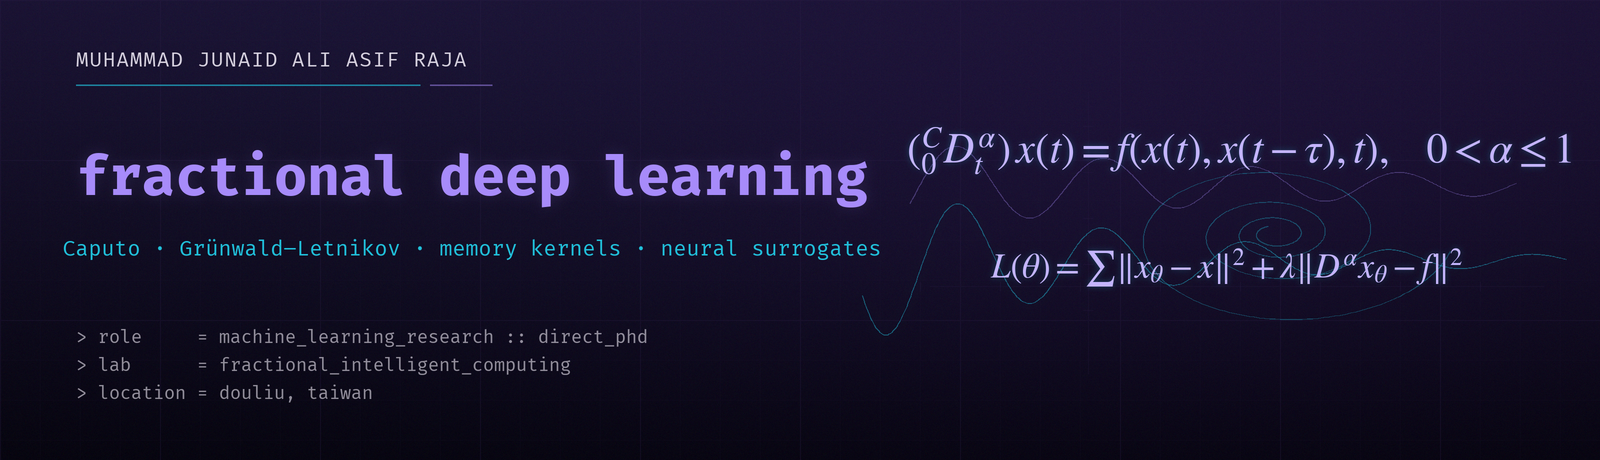
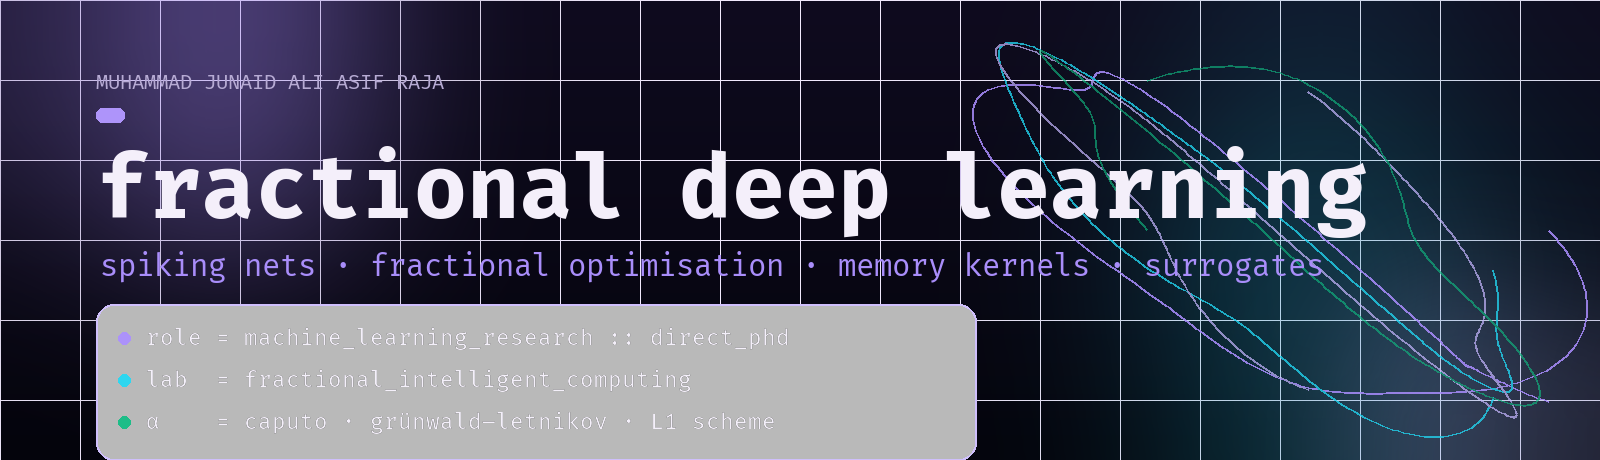
Tighten README after multi-agent critique
Reframe Fractional Deep Learning honestly — "an open research direction
I am working on, still finding its shape" instead of overclaim.

Three threads aligned with the actual programme:
- Memory is structure, not noise (fractional operators)
- Computation is spiking, not just smooth (fractional spiking neural networks)
- Optimisation is fractional (memory-aware gradient updates)

Synthesised changes from five parallel critics (prose, technical,
visual, persona, distinctiveness):

Prose:
- Thesis rewritten without hedge-language ("absorb", "budget")
- Repository descriptions tightened — drop "empirical backbone",
  "useful when benchmarking", "runs in-lab", "arXiv-style"
- "Currently · 2026-Q2" questions expanded from slogans to full
  research-grade questions
- "Direct PhD" → "Direct-entry PhD" for non-Taiwan readers
- signature.svg alt-text + caption made consistent

Technical:
- Drop the inaccurate O(N²) claim from the thesis (was correct only
  for naive direct evaluation; SOE / Jiang–Zhang / Lubich reduce it
  to O(N log² N))
- Split dataclass `kernel` / `scheme` fields (Caputo/G-L are
  definitions; L1 / Adams–Bashforth–Moulton are schemes)
- "L1-scheme" → "L1 scheme" (standard convention)
- Dataclass docstring honest about FDL still being defined

Visual:
- Stats row trimmed 6 → 3 (drop low-signal lang + repos badges)
- Selected work: #### subheadings dropped, replaced with inline
  italic *[track]* labels — same grouping, lower visual weight
[…]

diff --git a/scripts/build_profile_assets.py b/scripts/build_profile_assets.py
@@ -183,60 +183,36 @@ def build_hero(name: str, palette: dict, headline: str, tagline: str) -> None:
     draw = ImageDraw.Draw(image, "RGBA")
 
     # fonts
-    micro = load_font(20)
-    small = load_font(24)
-    medium = load_font(30)
-    large = load_font(78, bold=True)
-    sub = load_font(28)
+    micro    = load_font(20)
+    sub      = load_font(30)
+    eq_font  = load_font(36, bold=True)
+    headline_font = load_font(86, bold=True)
 
-    # eyebrow + name
-    add_label(draw, (90, 64), "MUHAMMAD JUNAID ALI ASIF RAJA", micro, (*palette["muted"], 245))
-    # title bar accent
-    draw.rounded_rectangle((90, 100, 122, 110), radius=5, fill=(*palette["violet"], 230))
+    # eyebrow (name in small caps)
+    add_label(draw, (96, 70),  "MUHAMMAD JUNAID ALI ASIF RAJA", micro, (*palette["muted"], 245))
+
+    # title bar accent (vertical chip)
+    draw.rounded_rectangle((96, 108, 124, 122), radius=6, fill=(*palette["violet"], 235))
 
     # headline
-    add_label(draw, (90, 124), headline, large, (*palette["text"], 255))
-    add_label(draw, (94, 230), tagline, sub, (*palette["violet"], 250))
+    add_label(draw, (96, 138), headline, headline_font, (*palette["text"], 255))
 
-    # signature equation line under the tagline
-    eq_line = "𝒟ᵅ x(t) = f( x(t), x(t−τ), t ),   0 < α ≤ 1"
-    add_label(draw, (94, 274), eq_line, medium, (*palette["cyan"], 240))
+    # subline (vectors)
+    add_label(draw, (100, 248), tagline, sub, (*palette["violet"], 250))
 
-    # terminal panel bottom-left
+    # terminal panel bottom-left — role + lab + α only (location is already in the README sub-line)
     draw_terminal_panel(
         draw,
         palette,
         name,
         lines=[
-            (palette["violet"],  "role     = machine_learning_research :: direct_phd"),
-            (palette["cyan"],    "lab      = fractional_intelligent_computing"),
-            (palette["emerald"], "location = douliu, taiwan"),
+            (palette["violet"],  "role = machine_learning_research :: direct_phd"),
+            (palette["cyan"],    "lab  = fractional_intelligent_computing"),
+            (palette["emerald"], "α    = caputo · grünwald–letnikov · L1 scheme"),
         ],
-        origin=(90, 318),
-        width=760,
+        origin=(96, 304),
+        width=880,
     )
-
-    # right-side meta column
-    meta_lines = [
-        ("programme :", "fractional deep learning"),
-        ("methods    :", "NARX · cascade · PINN · fractional optim."),
-        ("systems    :", "HR · FHN · memristive · CPS · plankton"),
-    ]
-    y = 90
-    label_font = load_font(20, bold=True)
-    value_font = load_font(20)
-    for label, value in meta_lines:
-        add_label(draw, (970, y), label, label_font, (*palette["lavender"], 240))
-        add_label(draw, (1130, y), value, value_font, (*palette["text"], 235))
-        y += 32
-
-    # small loss equation, lower-right
-    loss = "L(θ) = Σ ‖x_θ − x‖² + λ ‖𝒟ᵅ x_θ − f‖²"
-    add_label(draw, (970, 360), loss, value_font, (*palette["cyan"], 220))
-
-    # bottom corner tag
-    corner = load_font(18)
-    add_label(draw, (1440, 414), "ƒDL · 2026", corner, (*palette["muted"], 200))
 
     image.save(ASSETS_DIR / name)
 
@@ -244,7 +220,7 @@ def build_hero(name: str, palette: dict, headline: str, tagline: str) -> None:
 def main() -> None:
     ensure_dirs()
     headline = "fractional deep learning"
-    tagline  = "Caputo · Grünwald–Letnikov · memory kernels · neural surrogates"
+    tagline  = "spiking nets · fractional optimisation · memory kernels · surrogates"
     build_hero("hero-dark.png",  DARK,  headline, tagline)
     build_hero("hero-light.png", LIGHT, headline, tagline)
     print(f"Built assets in {ASSETS_DIR}")

diff --git a/README.md b/README.md
@@ -6,227 +6,109 @@
 <h1 align="center">Muhammad Junaid Ali Asif Raja</h1>
 
 <p align="center">
-  <b>Pioneering · Engineering · Crafting&nbsp; Fractional Deep Learning</b><br>
-  <sub>Machine Learning Research &nbsp;·&nbsp; Direct PhD &nbsp;·&nbsp; Fractional Intelligent Computing Lab &nbsp;·&nbsp; National Yunlin University of Science &amp; Technology &nbsp;·&nbsp; Douliu, Taiwan</sub>
+  <sub>Machine Learning Research &nbsp;·&nbsp; Direct-entry PhD &nbsp;·&nbsp; Fractional Intelligent Computing Lab &nbsp;·&nbsp; National Yunlin University of Science &amp; Technology &nbsp;·&nbsp; Douliu, Taiwan</sub>
 </p>
 
 <p align="center">
   <a href="https://junaidaliop.github.io"><img alt="Portfolio" src="https://img.shields.io/badge/Portfolio-junaidaliop.github.io-7C3AED?style=for-the-badge&logo=githubpages&logoColor=white"></a>
   <a href="https://scholar.google.com/citations?user=9VTFIJcAAAAJ"><img alt="Google Scholar" src="https://img.shields.io/badge/Scholar-profile-22D3EE?style=for-the-badge&logo=googlescholar&logoColor=white"></a>
   <a href="https://orcid.org/0009-0008-9249-9983"><img alt="ORCID" src="https://img.shields.io/badge/ORCID-0009--0008--9249--9983-A78BFA?style=for-the-badge&logo=orcid&logoColor=white"></a>
-  <a href="https://junaidaliop.github.io/assets/pdf/cv.pdf"><img alt="CV" src="https://img.shields.io/badge/CV-PDF-0E7490?style=for-the-badge&logo=adobeacrobatreader&logoColor=white"></a>
+  <a href="https://junaidaliop.github.io/assets/pdf/cv.pdf"><img alt="CV" src="https://img.shields.io/badge/CV-PDF-22D3EE?style=for-the-badge&logo=adobeacrobatreader&logoColor=white"></a>
   <a href="mailto:muhammadjunaidaliasifraja@gmail.com"><img alt="Email" src="https://img.shields.io/badge/Email-contact-7C3AED?style=for-the-badge&logo=protonmail&logoColor=white"></a>
 </p>
 
 <p align="center">
-  <img alt="Citations"  src="https://img.shields.io/badge/citations-188-A78BFA?style=flat-square&labelColor=2D1F4A">
-  <img alt="h-index"    src="https://img.shields.io/badge/h--index-9-A78BFA?style=flat-square&labelColor=2D1F4A">
-  <img alt="i10-index"  src="https://img.shields.io/badge/i10--index-8-A78BFA?style=flat-square&labelColor=2D1F4A">
-  <img alt="papers"     src="https://img.shields.io/badge/papers-27%2B-22D3EE?style=flat-square&labelColor=164E63">
-  <img alt="repos"      src="https://img.shields.io/badge/public%20repos-16-22D3EE?style=flat-square&labelColor=164E63">
-  <img alt="lang"       src="https://img.shields.io/badge/lang-Python%20%C2%B7%20Jupyter%20%C2%B7%20MATLAB-10B981?style=flat-square&labelColor=064E3B">
-  <a href="mailto:muhammadjunaidaliasifraja@gmail.com"><img alt="Open to collaborations" src="https://img.shields.io/badge/open%20to%20collaborations-let's%20talk-F59E0B?style=for-the-badge&labelColor=78350F&logo=maildotru&logoColor=white"></a>
+  <img alt="Citations" src="https://img.shields.io/badge/citations-188-A78BFA?style=flat-square&labelColor=2D1F4A">
+  <img alt="h-index"   src="https://img.shields.io/badge/h--index-9-A78BFA?style=flat-square&labelColor=2D1F4A">
+  <img alt="papers"    src="https://img.shields.io/badge/papers-27%2B-22D3EE?style=flat-square&labelColor=164E63">
 </p>
 
 > [!IMPORTANT]
-> **Thesis.** Classical solvers spend most of their budget evaluating memory kernels.
-> Deep networks, given the right structure, can absorb those kernels in a single forward pass.
+> **Thesis.** Classical fractional solvers carry their full history at every step.
+> A trained neural surrogate amortises that work into a single forward pass —
+> without breaking the fractional constraint.
 
 ---
 
-## Programme
+## Fractional Deep Learning
 
-I am **pioneering Fractional Deep Learning** — a coherent family of neural architectures, training objectives, and optimizers built around fractional-order operators. The class of systems under study is
+A direction I am working on — still finding its shape. Three threads.
 
-$$ {}^{C}_{\,0}\mathcal{D}^{\alpha}_{t}\,x(t) \;=\; f\!\big(x(t),\,x(t-\tau),\,t\big), \qquad 0 < \alpha \leq 1, $$
+**1 · Memory is structure, not noise.**
+Long-range temporal dependence in real systems is captured natively by fractional operators. Networks should learn under that structure, not despite it.
 
-and the trained surrogate $x_\theta$ minimises a fractional-residual criterion
+**2 · Computation is spiking, not just smooth.**
+Real neurons fire; real systems with memory accumulate. **Fractional spiking neural networks (FSNNs)** make discrete events first-class under a continuous memory kernel.
 
-$$ \mathcal{L}(\theta) \;=\; \sum_{t}\big\Vert\, x_\theta(t) - x(t)\,\big\Vert_{2}^{2} \;+\; \lambda\,\big\Vert\, {}^{C}_{\,0}\mathcal{D}^{\alpha}_{t}\,x_\theta(t) \,-\, f\!\big(x_\theta(t),\,x_\theta(t-\tau),\,t\big)\,\big\Vert_{2}^{2}, $$
+**3 · Optimisation is fractional.**
+Memory-aware gradient updates — Caputo, Grünwald–Letnikov — change the training dynamics on non-smooth loss landscapes.
 
-so the network must be correct pointwise *and* correct under the fractional operator.
+The class of systems under study and the criterion the surrogate $x_\theta$ minimises:
+
+$$ {}^{C}_{\,0}\mathcal{D}^{\alpha}_{t}\,x(t) \;=\; f\!\big(x(t),\,x(t-\tau),\,t\big), \qquad 0 < \alpha \leq 1 $$
+
+$$ \mathcal{L}(\theta) \;=\; \sum_{t}\big\Vert\, x_\theta(t) - x(t)\,\big\Vert_{2}^{2} \;+\; \lambda\,\big\Vert\, {}^{C}_{\,0}\mathcal{D}^{\alpha}_{t}\,x_\theta(t) \,-\, f\!\big(x_\theta(t),\,x_\theta(t-\tau),\,t\big)\,\big\Vert_{2}^{2} $$
+
+Correct pointwise, *and* correct under the fractional operator.
 
 ```python
 from dataclasses import dataclass, field
 
 @dataclass(frozen=True)
 class FractionalDeepLearning:
-    """A coherent research programme around fractional-order operators."""
-    vectors: list[str] = field(default_factory=lambda: [
-        "fractional-aware optimizers for deep networks",
-        "autoregressive neural emulators for fractional-order systems",
+    """An open research direction. Surface still being defined."""
+    threads: list[str] = field(default_factory=lambda: [
+        "fractional spiking neural networks",
+        "fractional-order optimisation for deep networks",
+        "neural emulators for fractional-order dynamics",
         "physics-informed losses with non-local memory kernels",
-        "long-memory dynamics: cyber-physical, neuronal, ecological",
     ])
-    alpha:   float = 0.95         # fractional order, Caputo sense
-    horizon: int   = 1024         # rollout steps for long-memory rollouts
-    kernel:  str   = "caputo"     # caputo | grunwald-letnikov | adams-bashforth
-    solver:  str   = "L1-scheme"  # baseline against which surrogates compete
-```
-
-```mermaid
-%%{init: {'theme':'base','themeVariables':{'fontFamily':'ui-monospace,SFMono-Regular,Menlo,monospace','primaryColor':'#7C3AED','primaryTextColor':'#ffffff','primaryBorderColor':'#A78BFA','lineColor':'#A78BFA','secondaryColor':'#0F172A','tertiaryColor':'#1E293B','clusterBkg':'#0F172A','clusterBorder':'#334155'}}}%%
-flowchart LR
-    A["Fractional system<br/><b>𝒟<sup>α</sup>x = f</b>"]:::sys --> B["Discretise<br/>L1 · GL · Adams"]:::num
-    B --> C["Neural surrogate<br/>NARX · cascade · PINN"]:::nn
-    C --> D["Long-horizon<br/>prediction"]:::out
-    A -. "fractional residual" .-> C
-    classDef sys fill:#7C3AED,stroke:#C4B5FD,color:#ffffff,stroke-width:2px
-    classDef num fill:#1E293B,stroke:#475569,color:#E2E8F0,stroke-width:2px
-    classDef nn  fill:#06B6D4,stroke:#67E8F9,color:#0F172A,stroke-width:2px
-    classDef out fill:#10B981,stroke:#6EE7B7,color:#022C22,stroke-width:2px
+    alpha:  float = 0.95         # fractional order, Caputo sense
+    kernel: str   = "caputo"     # caputo | grunwald-letnikov | riemann-liouville
+    scheme: str   = "L1"         # L1 | adams-bashforth-moulton | grunwald-letnikov-direct
+    horizon: int  = 1024         # rollout horizon for long-memory dynamics
 ```
 
 ---
 
 ## Currently · 2026-Q2
 
-| | Track | Open question |
-|:-:|:--|:--|
-| 🟣 | **Cyber-physical systems** | Fractional malware propagation on air-gapped industrial networks — what governs the long tail? |
-| 🟣 | **Computational neuroscience** | Bursting transitions in fractional Hindmarsh–Rose & memristive neurons — recoverable from short windows? |
-| 🔵 | **Aquatic ecology** | Toxin–plankton–nutrient dynamics under climate forcing — surrogate or stiff solver? |
-| 🟢 | **Fractional optimization** | Memory-aware gradient updates — when do they outperform Adam, and on which loss landscapes? |
-
----
-
-<p align="center">
-  <picture>
-    <img alt="Fractional Hindmarsh–Rose spike-train signature (animated SVG)" src="assets/profile/signature.svg" width="100%">
-  </picture>
-</p>
-<p align="center"><sub><i>signature.svg — animated phase trace of a fractional bursting neuron, rendered live in your browser.</i></sub></p>
-
----
-
-## Repositories
-
-<table>
-  <tr>
-    <td width="50%" valign="top">
-      <h3><a href="https://github.com/junaidaliop/optim">optim</a></h3>
-      Fractional-calculus-inspired optimizers for deep networks. The empirical backbone of the <i>Fractional optimization</i> track above.
-      <br><br>
-      <img alt="lang" src="https://img.shields.io/badge/Python-7C3AED?style=flat-square&logo=python&logoColor=white">
-    </td>
-    <td width="50%" valign="top">
-      <h3><a href="https://github.com/junaidaliop/MobileNetV4">MobileNetV4</a></h3>
-      Clean PyTorch replication of the MobileNetV4 architecture — for benchmarking surrogate backbones against modern efficient nets.
-      <br><br>
-      <img alt="stars" src="https://img.shields.io/github/stars/junaidaliop/MobileNetV4?style=flat-square&color=22D3EE&labelColor=164E63&logo=github">
-      <img alt="lang" src="https://img.shields.io/badge/Python-22D3EE?style=flat-square&logo=python&logoColor=white">
-    </td>
-  </tr>
-  <tr>
-    <td width="50%" valign="top">
-      <h3><a href="https://github.com/junaidaliop/MNIST-SOPCNN">MNIST-SOPCNN</a></h3>
-      Self-organizing polynomial CNN reference implementation. Useful when polynomial activations enter the fractional-network design space.
-      <br><br>
-      <img alt="stars" src="https://img.shields.io/github/stars/junaidaliop/MNIST-SOPCNN?style=flat-square&color=A78BFA&labelColor=2D1F4A&logo=github">
-      <img alt="lang" src="https://img.shields.io/badge/Python-A78BFA?style=flat-square&logo=python&logoColor=white">
-    </td>
-    <td width="50%" valign="top">
-      <h3><a href="https://github.com/junaidaliop/daily-research-paper-recommender">daily-research-paper-recommender</a></h3>
-      Personalised arXiv-style daily recommender — runs in-lab to surface fractional-calculus and SciML preprints worth reading.
-      <br><br>
-      <img alt="stars" src="https://img.shields.io/github/stars/junaidaliop/daily-research-paper-recommender?style=flat-square&color=10B981&labelColor=064E3B&logo=github">
-      <img alt="lang" src="https://img.shields.io/badge/Python-10B981?style=flat-square&logo=python&logoColor=white">
-    </td>
-  </tr>
-</table>
+| Track | Open question |
+|:--|:--|
+| **Cyber-physical systems** | What mechanisms shape the heavy-tailed infection-time distribution of fractional malware propagation on air-gapped industrial networks? |
+| **Computational neuroscience** | Are bursting transitions in fractional Hindmarsh–Rose and memristive neurons recoverable from short observation windows? |
+| **Aquatic ecology** | Can a neural surrogate match a stiff implicit solver on toxin–plankton–nutrient dynamics under non-stationary climate forcing? |
+| **Fractional optimisation** | When do memory-aware gradient updates outperform Adam, and on which loss landscapes? |
 
 ---
 
 ## Selected work
 
-> [!NOTE]
-> Eight papers, grouped by track. The full record lives on the <a href="https://junaidaliop.github.io/publications/">publications page</a>.
+Eight papers, four tracks. Full record on the [publications page](https://junaidaliop.github.io/publications/) — selected here, not exhaustive.
 
-### Computational neuroscience — fractional & memristive neurons
-
-1. **A Hybrid Neural-Computational Paradigm for Complex Firing Patterns and Excitability Transitions in Fractional Hindmarsh–Rose Neuronal Models.** *Chaos, Solitons & Fractals*, 2025. &nbsp; [![DOI](https://img.shields.io/badge/DOI-10.1016%2Fj.chaos.2025.116149-A78BFA?style=flat-square&labelColor=2D1F4A)](https://doi.org/10.1016/j.chaos.2025.116149)
-2. **Design of Intelligent Bayesian-Regularized Deep Cascaded NARX Neurostructure for Predictive Analysis of FitzHugh-Nagumo Bioelectrical Model in Neuronal Cell Membrane.** *Biomedical Signal Processing and Control*, 2025. &nbsp; [![DOI](https://img.shields.io/badge/DOI-10.1016%2Fj.bspc.2024.107192-A78BFA?style=flat-square&labelColor=2D1F4A)](https://doi.org/10.1016/j.bspc.2024.107192)
-3. **A Hybrid Intelligent Computational Framework for Diverse Firing Patterns in a Fractional-Order Locally Active Memristive Neuron Model.** *Chaos, Solitons & Fractals*, 2026. &nbsp; [![DOI](https://img.shields.io/badge/DOI-10.1016%2Fj.chaos.2026.118209-A78BFA?style=flat-square&labelColor=2D1F4A)](https://doi.org/10.1016/j.chaos.2026.118209)
-
-### Aquatic ecology — *Water Research*
-
-4. **Neuro-Computational Surrogates for Aqueous Fractional-Order Nekton-Plankton Spatiotemporal Dynamics Under Toxicant Stress, Refuge Efficacy, and Nutrient Flux Modulation.** *Water Research*, 2026. &nbsp; [![DOI](https://img.shields.io/badge/DOI-10.1016%2Fj.watres.2025.124754-22D3EE?style=flat-square&labelColor=164E63)](https://doi.org/10.1016/j.watres.2025.124754)
-5. **Design of a Fractional-Order Environmental Toxin-Plankton System in Aquatic Ecosystems: A Novel Machine Predictive Expedition with Nonlinear Autoregressive Neuroarchitectures.** *Water Research*, 2025. &nbsp; [![DOI](https://img.shields.io/badge/DOI-10.1016%2Fj.watres.2025.123640-22D3EE?style=flat-square&labelColor=164E63)](https://doi.org/10.1016/j.watres.2025.123640)
-
-### Cyber-physical systems — fractional malware propagation
-
-6. **Design of Deep Learning Networks for Nonlinear Delay Differential System for Stuxnet Virus Spread in an Air-Gapped Critical Environment.** *Applied Soft Computing*, 2025. &nbsp; [![DOI](https://img.shields.io/badge/DOI-10.1016%2Fj.asoc.2025.113091-F59E0B?style=flat-square&labelColor=78350F)](https://doi.org/10.1016/j.asoc.2025.113091)
-7. **Machine Learning Knowledge Driven Investigation for Immunity Infused Fractional Industrial Virus Transmission in SCADA Systems.** *Journal of Industrial Information Integration*, 2025. &nbsp; [![DOI](https://img.shields.io/badge/DOI-10.1016%2Fj.jii.2025.100940-F59E0B?style=flat-square&labelColor=78350F)](https://doi.org/10.1016/j.jii.2025.100940)
-
-### Climate-coupled dynamics — *Engineering Applications of AI*
-
-8. **Bayesian-Regularized Cascaded Neural Networks for Fractional Asymmetric Carbon–Thermal Nutrient–Plankton Dynamics Under Global Warming and Climatic Perturbations.** *Engineering Applications of Artificial Intelligence*, 2025. &nbsp; [![DOI](https://img.shields.io/badge/DOI-10.1016%2Fj.engappai.2025.110739-10B981?style=flat-square&labelColor=064E3B)](https://doi.org/10.1016/j.engappai.2025.110739)
-
-<details>
-<summary><b>Full record</b> — 27&#43; papers · talks · awards</summary>
-
-&nbsp;
-
-The complete list lives on the [publications page](https://junaidaliop.github.io/publications/); citation metrics on [Google Scholar](https://scholar.google.com/citations?user=9VTFIJcAAAAJ).
-
-</details>
+1. *[computational neuroscience]* &nbsp; **A Hybrid Neural-Computational Paradigm for Complex Firing Patterns and Excitability Transitions in Fractional Hindmarsh–Rose Neuronal Models.** *Chaos, Solitons & Fractals*, 2025. &nbsp; [![DOI](https://img.shields.io/badge/DOI-10.1016%2Fj.chaos.2025.116149-A78BFA?style=flat-square&labelColor=2D1F4A)](https://doi.org/10.1016/j.chaos.2025.116149)
+2. *[computational neuroscience]* &nbsp; **Design of Intelligent Bayesian-Regularized Deep Cascaded NARX Neurostructure for Predictive Analysis of FitzHugh–Nagumo Bioelectrical Model in Neuronal Cell Membrane.** *Biomedical Signal Processing and Control*, 2025. &nbsp; [![DOI](https://img.shields.io/badge/DOI-10.1016%2Fj.bspc.2024.107192-A78BFA?style=flat-square&labelColor=2D1F4A)](https://doi.org/10.1016/j.bspc.2024.107192)
+3. *[computational neuroscience]* &nbsp; **A Hybrid Intelligent Computational Framework for Diverse Firing Patterns in a Fractional-Order Locally Active Memristive Neuron Model.** *Chaos, Solitons & Fractals*, 2026. &nbsp; [![DOI](https://img.shields.io/badge/DOI-10.1016%2Fj.chaos.2026.118209-A78BFA?style=flat-square&labelColor=2D1F4A)](https://doi.org/10.1016/j.chaos.2026.118209)
+4. *[aquatic ecology]* &nbsp; **Neuro-Computational Surrogates for Aqueous Fractional-Order Nekton–Plankton Spatiotemporal Dynamics Under Toxicant Stress, Refuge Efficacy, and Nutrient Flux Modulation.** *Water Research*, 2026. &nbsp; [![DOI](https://img.shields.io/badge/DOI-10.1016%2Fj.watres.2025.124754-A78BFA?style=flat-square&labelColor=2D1F4A)](https://doi.org/10.1016/j.watres.2025.124754)
+5. *[aquatic ecology]* &nbsp; **Design of a Fractional-Order Environmental Toxin–Plankton System in Aquatic Ecosystems: A Novel Machine Predictive Expedition with Nonlinear Autoregressive Neuroarchitectures.** *Water Research*, 2025. &nbsp; [![DOI](https://img.shields.io/badge/DOI-10.1016%2Fj.watres.2025.123640-A78BFA?style=flat-square&labelColor=2D1F4A)](https://doi.org/10.1016/j.watres.2025.123640)
+6. *[cyber-physical systems]* &nbsp; **Design of Deep Learning Networks for Nonlinear Delay Differential System for Stuxnet Virus Spread in an Air-Gapped Critical Environment.** *Applied Soft Computing*, 2025. &nbsp; [![DOI](https://img.shields.io/badge/DOI-10.1016%2Fj.asoc.2025.113091-A78BFA?style=flat-square&labelColor=2D1F4A)](https://doi.org/10.1016/j.asoc.2025.113091)
+7. *[cyber-physical systems]* &nbsp; **Machine Learning Knowledge Driven Investigation for Immunity Infused Fractional Industrial Virus Transmission in SCADA Systems.** *Journal of Industrial Information Integration*, 2025. &nbsp; [![DOI](https://img.shields.io/badge/DOI-10.1016%2Fj.jii.2025.100940-A78BFA?style=flat-square&labelColor=2D1F4A)](https://doi.org/10.1016/j.jii.2025.100940)
+8. *[climate-coupled dynamics]* &nbsp; **Bayesian-Regularized Cascaded Neural Networks for Fractional Asymmetric Carbon–Thermal Nutrient–Plankton Dynamics Under Global Warming and Climatic Perturbations.** *Engineering Applications of Artificial Intelligence*, 2025. &nbsp; [![DOI](https://img.shields.io/badge/DOI-10.1016%2Fj.engappai.2025.110739-A78BFA?style=flat-square&labelColor=2D1F4A)](https://doi.org/10.1016/j.engappai.2025.110739)
 
 ---
 
-## Research mindmap
+## Repositories
 
-```mermaid
-%%{init: {'theme':'base','themeVariables':{'fontFamily':'ui-monospace,SFMono-Regular,Menlo,monospace','primaryColor':'#7C3AED','primaryTextColor':'#ffffff','primaryBorderColor':'#A78BFA','lineColor':'#A78BFA'}}}%%
-mindmap
-  root((Fractional<br/>Deep Learning))
-    Operators
-      Caputo
-      Grünwald–Letnikov
-      Adams–Bashforth
-    Methods
-      NARX emulators
-      Bayesian cascades
-      PINN variants
-      Fractional optimizers
-    Systems
-      Hindmarsh–Rose
-      FitzHugh–Nagumo
-      Memristive neurons
-      Malware propagation
-      Plankton dynamics
-    Applications
-      Cyber-physical
-      Computational neuroscience
-      Aquatic ecology
-      Climate-coupled
-```
+- **[optim](https://github.com/junaidaliop/optim)** — fractional-calculus-inspired optimizers for deep networks; the code behind the *fractional optimisation* thread above.
+- **[MobileNetV4](https://github.com/junaidaliop/MobileNetV4)** — a clean PyTorch port of the MobileNetV4 architecture; used as a baseline backbone for surrogate-architecture experiments.
+- **[MNIST-SOPCNN](https://github.com/junaidaliop/MNIST-SOPCNN)** — self-organizing polynomial CNN reference implementation.
+- **[daily-research-paper-recommender](https://github.com/junaidaliop/daily-research-paper-recommender)** — a personal arXiv recommender for fractional-calculus and SciML preprints.
 
 ---
 
 <p align="center">
-  <img alt="Abstract phase-portrait artwork — generative visualisation of fractional-order attractor traces" src="assets/profile/artwork-dark.jpg" width="100%">
+  <img alt="Animated spike-train signature — fractional Hindmarsh–Rose, α = 0.95, bursting regime" src="assets/profile/signature.svg" width="100%">
 </p>
-<p align="center"><sub><i>Generative phase-portrait — produced via Codex image generation, post-processed for the README backplate.</i></sub></p>
+<p align="center"><sub><i>signature.svg — animated time series of a fractional bursting neuron, rendered live in your browser.</i></sub></p>
 
----
-
-```toml
-[profile]
-name      = "Muhammad Junaid Ali Asif Raja"
-role      = "Machine Learning Research, Direct PhD"
-programme = "Fractional Deep Learning"
-lab       = "Fractional Intelligent Computing Lab"
-affiliation = "National Yunlin University of Science & Technology"
-location  = "Douliu, Taiwan"
-
-[contact]
-email      = "muhammadjunaidaliasifraja@gmail.com"
-portfolio  = "https://junaidaliop.github.io"
-scholar    = "https://scholar.google.com/citations?user=9VTFIJcAAAAJ"
-orcid      = "https://orcid.org/0009-0008-9249-9983"
-cv         = "https://junaidaliop.github.io/assets/pdf/cv.pdf"
-
-[status]
-open-to    = ["collaborations", "internships", "fractional-DL discussions"]
-updated    = "2026-05"
-```
+<p align="center"><sub>Open to collaborations &nbsp;·&nbsp; <a href="mailto:muhammadjunaidaliasifraja@gmail.com">muhammadjunaidaliasifraja@gmail.com</a></sub></p>
